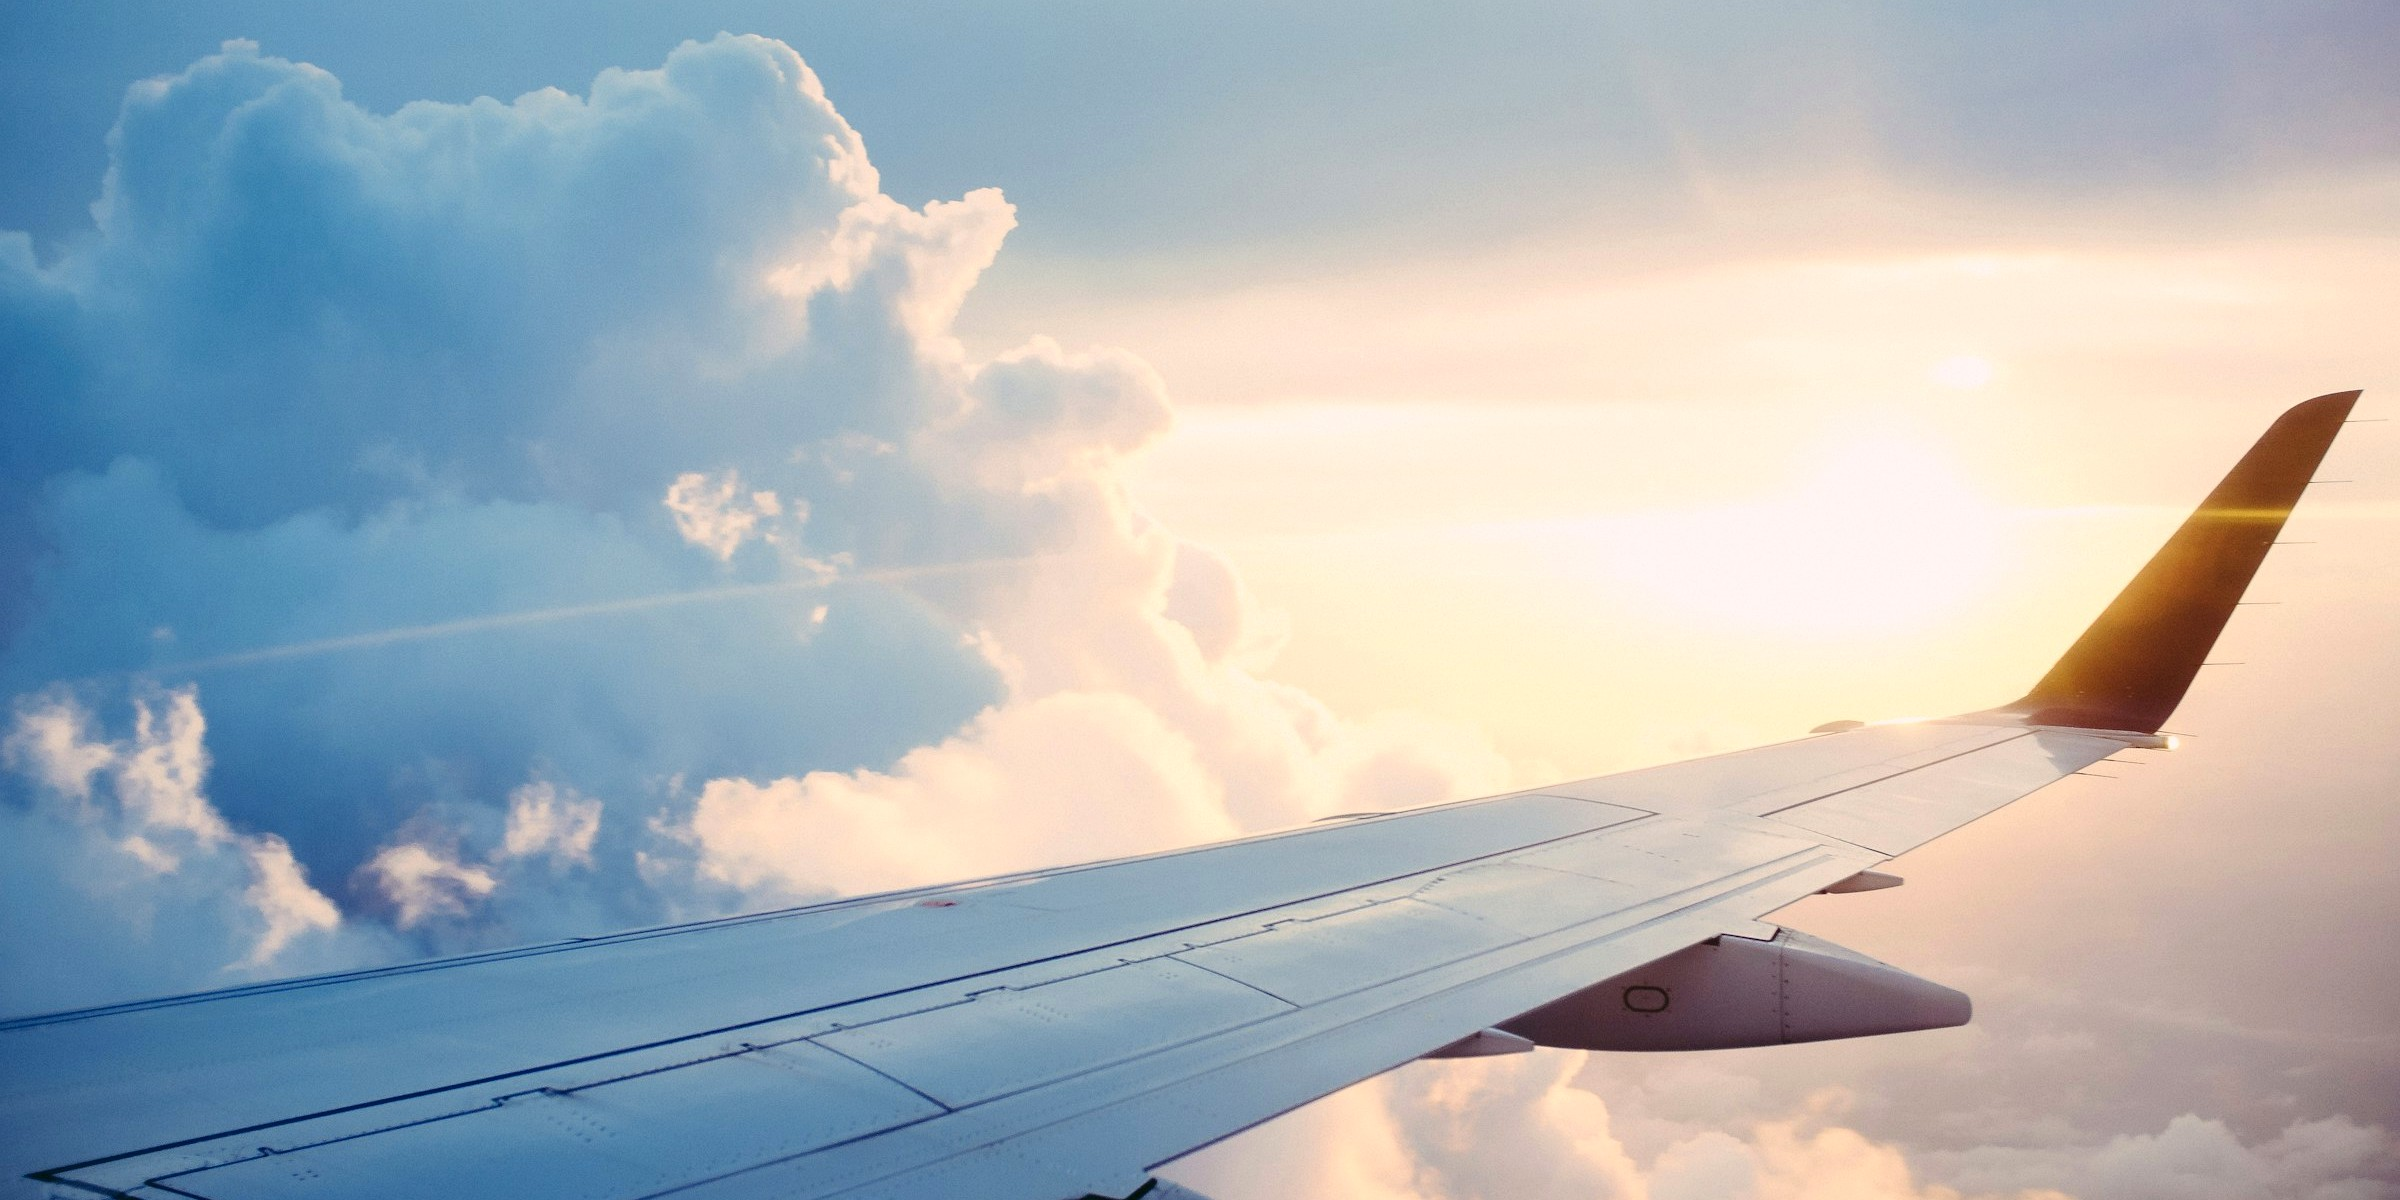
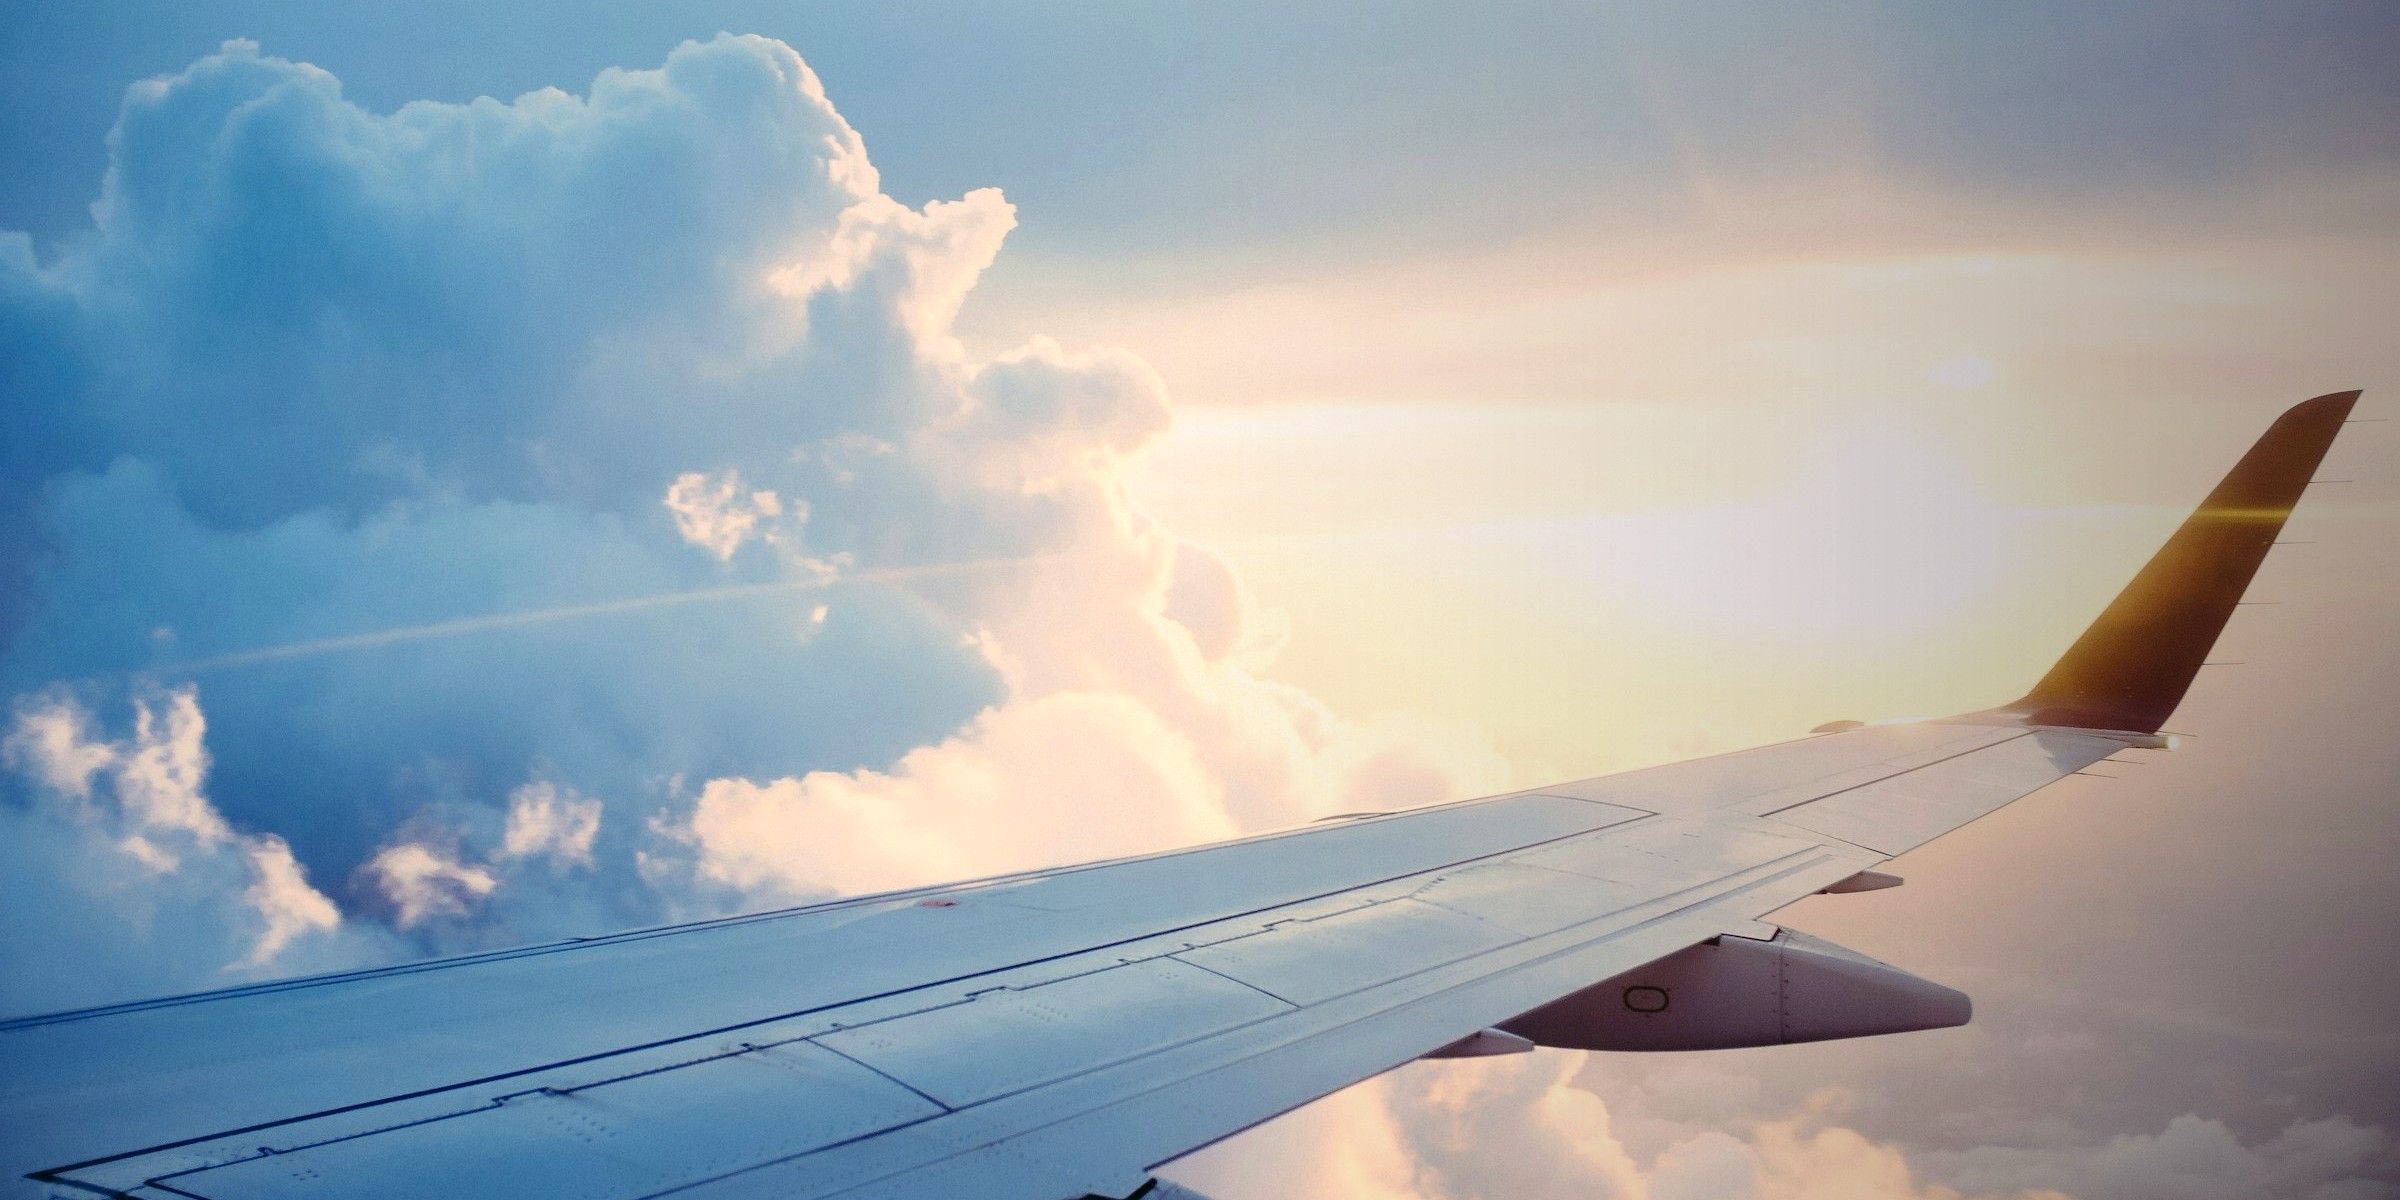
Lead the hero with the jet and keep wing-caption contrast readable
Put the approaching aircraft first, bump cache keys, and slightly
darken the wing photo so the Arabic title stays visible.

diff --git a/apps/web/src/lib/shop-content.ts b/apps/web/src/lib/shop-content.ts
@@ -195,7 +195,7 @@ export const SHOP_REVIEWS: ShopReview[] = [
 
 export const HERO_SLIDES = [
   {
-    image: "/media/hero/aviation-wing.jpg?v=1",
+    image: "/media/hero/aviation-jet.jpg?v=2",
     kicker: "اكتشف العالم",
     title: "لنسافر معاً",
     subtitle: "سافر بمتعة",
@@ -203,14 +203,13 @@ export const HERO_SLIDES = [
       "اكتشف وجهات بحرية وثقافية — بحث موحّد للطيران والفنادق والنقل في تجربة واحدة.",
   },
   {
-    image: "/media/hero/aviation-jet.jpg?v=1",
+    image: "/media/hero/aviation-wing.jpg?v=2",
     kicker: "WeekendGate",
     title: "اعثر على رحلتك المثالية",
     subtitle: "طيران وفنادق",
     description: "من الكويت إلى العالم — خطط رحلتك بخطوات بسيطة وواضحة.",
-  },
   {
-    image: "/media/hero/aviation-tarmac.jpg?v=1",
+    image: "/media/hero/aviation-tarmac.jpg?v=2",
     kicker: "إلى أين تريد الذهاب؟",
     title: "كل رحلتك من مكان واحد",
     subtitle: "حجز ذكي",
